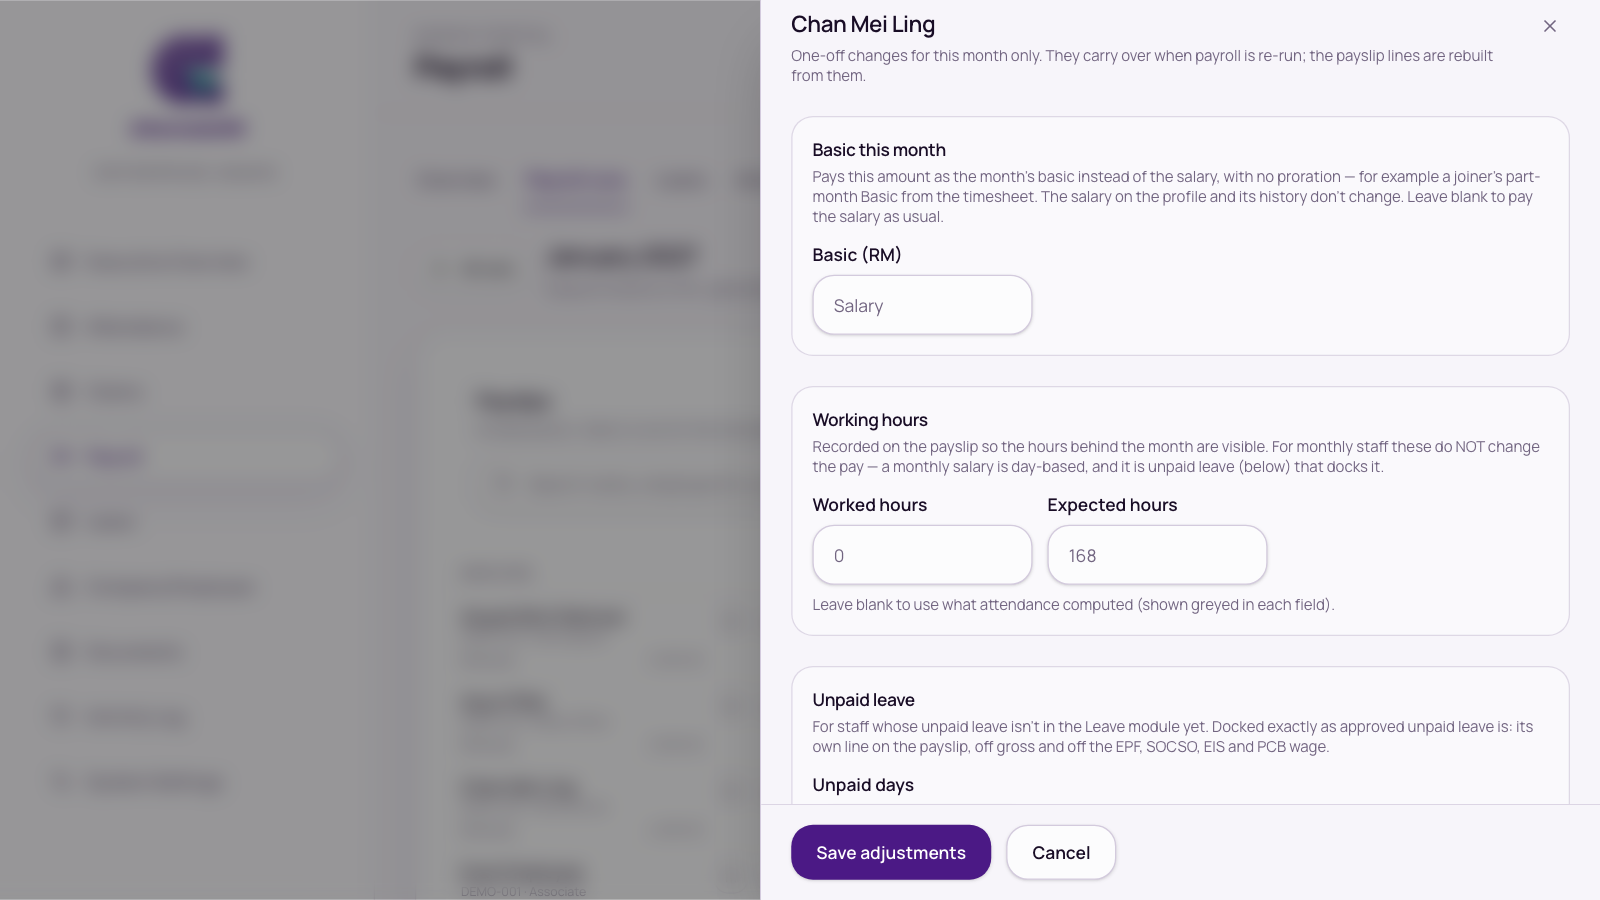
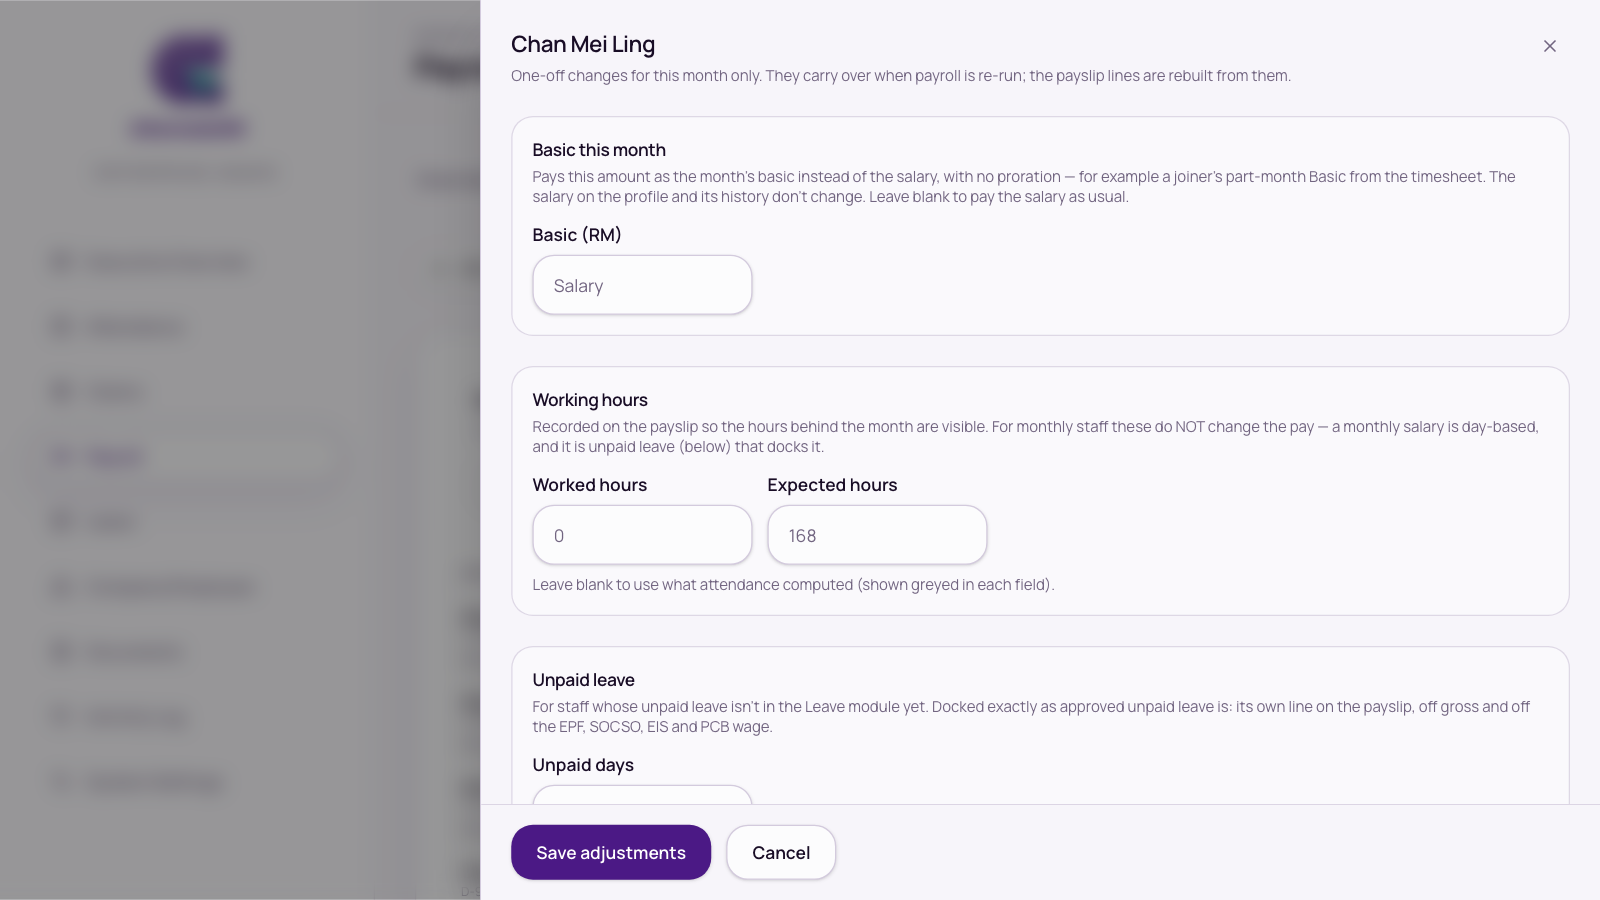
docs: What's new, API docs and user guide for adjustments search, wider panel and bank file names

Changed region(s): [[0.2812, 0.0, 0.9688, 1.0], [0.6562, 0.56, 0.75, 0.6222]]

diff --git a/api-docs/payroll-runs.html b/api-docs/payroll-runs.html
@@ -111,7 +111,7 @@
           already has an unnamed run (<code>409</code> otherwise). Nobody is paid twice for a month: anyone
           already in another run that month is dropped from a new one, and left out of a re-run. Every run
           has its own <code>id</code>; the <a href="#run-object"><code>label</code></a> (&ldquo;October 2026
-          &ndash; Workers&rdquo;) tells them apart, and a named run's file names carry its
+          &ndash; Workers&rdquo;) tells them apart, and a named run's document file names (not the bank file's) carry its
           name (see <a href="#run-files">Run names in file names</a>).</li>
         <li><strong>Two employee ids.</strong> Every id on this page is an
           <code>employeeProfileId</code> from <code>GET /payroll/employees</code> or the
@@ -467,7 +467,7 @@ curl -X PATCH https://&lt;api-host&gt;/payroll/runs/run_123 \
             <tr><td><code>periodLabel</code></td><td>string</td><td>The month only, e.g. <code>"January 2026"</code>, rendered server-side. Identical for every run of the month.</td></tr>
             <tr><td><code>name</code></td><td>string or null</td><td>The run's name within its month, e.g. <code>"Workers"</code>. Null for an unnamed run.</td></tr>
             <tr><td><code>label</code></td><td>string</td><td>The label to show when a month has several runs: <code>"October 2026 &ndash; Workers"</code> (an en dash), or just the month when the run is unnamed. Also what <code>alsoReverted</code>, <code>attachedToRunPeriod</code> and the run's own documents use.</td></tr>
-            <tr><td><code>runNumber</code></td><td>number</td><td>1 for the month's first run, 2 for the next, and so on. Not reused while a later run exists. Used for a bank file's batch id and the file-name tag of an unnamed later run.</td></tr>
+            <tr><td><code>runNumber</code></td><td>number</td><td>1 for the month's first run, 2 for the next, and so on. Not reused while a later run exists. Used for a bank file's batch id or sequence number (Maybank, Public Bank) and the file-name tag of an unnamed later run.</td></tr>
             <tr><td><code>status</code></td><td>string</td><td><code>"DRAFT"</code> · <code>"PENDING_APPROVAL"</code> · <code>"SUBMITTED"</code>.</td></tr>
             <tr><td><code>source</code></td><td>string</td><td><code>"COMPUTED"</code> (the normal path) or <code>"IMPORTED"</code> (seeded from a migration — its statutory files, bank file and run reports are refused; its payslips are still downloadable).</td></tr>
             <tr><td><code>skipProration</code></td><td>boolean</td><td>True when the pay figures are final and joiners/leavers are not prorated. See <a href="#update">PATCH</a>.</td></tr>
@@ -1367,9 +1367,12 @@ curl -X PATCH https://&lt;api-host&gt;/payroll/runs/run_123 \
         <code>Payroll_Summary_January_2026_Workers.pdf</code>,
         <code>ABPay {Company name} 2026-01 Workers.xlsx</code> &mdash; except the PCB (CP39) file, whose name is
         letters and digits only because the e-PCB upload refuses anything else: <code>{10-digit employer no}012026Workers.txt</code>.
-        This covers the statutory files, the bank file, the payslips ZIP, the documents bundle, the statutory and allowance/deduction zips, the run
+        This covers the statutory files, the payslips ZIP, the documents bundle, the statutory and allowance/deduction zips, the run
         summary, payment schedule, PCB details, allowance, deduction and manual-payment reports and the
         ABPay timesheet. The single payslip PDF and the TP1 documents are per employee and keep their names.
+        <strong>The bank file is the exception and never carries the tag</strong>: a bank's upload portal reads the file name
+        (Public Bank rejects anything outside its own pattern), so each bank keeps runs apart its own way &mdash; see the
+        <a href="#doc-bank-file">bank-file endpoint</a>.
         A run's own documents (summary, payment schedule, and so on) head their pages with the run
         <code>label</code>; a payslip still shows the month only.
       </div>
@@ -1823,10 +1826,10 @@ curl "https://&lt;api-host&gt;/payroll/runs/month/2026/1/summary?format=xlsx" \
           </table>
         </div>
         <h3>Response <code>200</code></h3>
-        <p>Maybank's TXT batch id carries <code>R{runNumber}</code> after the period (e.g. <code>202601R2</code>) for a month's second and later runs, so each upload's batch id is unique; the first run keeps the plain period. Every format's file name also carries the run's <a href="#run-files">name tag</a>.</p>
+        <p>Maybank's TXT batch id carries <code>R{runNumber}</code> after the period (e.g. <code>202601R2</code>) for a month's second and later runs, so each upload's batch id is unique; the first run keeps the plain period. A bank file's name never carries the run's name (the bank's portal reads it). Public Bank's ECP spreadsheet is named <code>{10-digit account}PR{ddMMyy}{NN}.xlsx</code>, where <code>{ddMMyy}</code> is the payment date and <code>NN</code> is the run number, <code>01</code> for the first run and <code>02</code> for the second, up to <code>99</code> (e.g. <code>1234567890PR31012601.xlsx</code>), so two runs paid the same day get names the bank accepts.</p>
         <p>Content type and filename depend on the configured bank (e.g. Public Bank's ECP spreadsheet, Maybank's TXT, CIMB's Excel template, or Hong Leong's two formats).</p>
         <p>For CIMB, <code>Content-Type</code> is an Excel workbook (<code>.xlsx</code>), filename <code>CIMB_Bulk_Payroll_{MM}{YYYY}.xlsx</code> (e.g. <code>CIMB_Bulk_Payroll_012026.xlsx</code>). One sheet, <code>EPF</code> (CIMB's template name): row 1 is the template's field rules, row 2 the headers (<code>*Beneficiary Name</code>, <code>Beneficiary ID</code>, <code>*BNM Code</code>, <code>*Account Number</code>, <code>*Payment Amount</code>, <code>Reference Number</code>), and one payee per row from row 3. <code>Beneficiary ID</code> is blank; <code>*BNM Code</code> is CIMB's dropdown label (e.g. <code>35-CIMB Bank Berhad</code>); the account number is text; the amount is a number to 2 decimals. Names and reference have <code>-</code> and <code>/</code> replaced by spaces and are cut to CIMB's lengths (40 and 30).</p>
-        <p>For OCBC, <code>Content-Type</code> is <code>text/plain</code> (ASCII, CRLF line endings), filename <code>OCBC_GIRO_Payroll_{MM}{YYYY}_T{tapeId}.txt</code> (e.g. <code>OCBC_GIRO_Payroll_012026_T001.txt</code>, plus the run's name tag when it has one). Every line is exactly 480 characters: one header (<code>01</code>) with the company, its debiting account, the tape id and the value date; one detail line (<code>02</code>) per payee with account, amount in sen, name, routing ID and reference; one trailer (<code>03</code>) with the payee count and total. Beneficiary names are cut to 22 characters, and an account number longer than 17 digits is refused rather than cut.</p>
+        <p>For OCBC, <code>Content-Type</code> is <code>text/plain</code> (ASCII, CRLF line endings), filename <code>OCBC_GIRO_Payroll_{MM}{YYYY}_T{tapeId}.txt</code> (e.g. <code>OCBC_GIRO_Payroll_012026_T001.txt</code>). Every line is exactly 480 characters: one header (<code>01</code>) with the company, its debiting account, the tape id and the value date; one detail line (<code>02</code>) per payee with account, amount in sen, name, routing ID and reference; one trailer (<code>03</code>) with the payee count and total. Beneficiary names are cut to 22 characters, and an account number longer than 17 digits is refused rather than cut.</p>
         <h3>Errors</h3>
         <ul>
           <li><code>404</code> — no such run.</li>

diff --git a/user-guide/altomatehr-admin-guide.html b/user-guide/altomatehr-admin-guide.html
@@ -7,7 +7,7 @@
   Bookmark: this page is correct as of this commit on main. The next update
   re-checks every user-visible change after it — from any branch — then
   moves it forward.
-  user-guide-covered-up-to: 811048b
+  user-guide-covered-up-to: 6e1186b
 -->
 <html lang="en">
 <head>
@@ -1527,6 +1527,10 @@
           approved overtime, leave and claims. Under the month's name the run shows when it was generated and approved,
           in your own local time.</p></li>
       <li><h4>Check and adjust</h4>
+        <p>Before the run is worked out, the <strong>One-off adjustments</strong> list shows everyone on the run. Type a name or
+          employee number in <em>Search by name or employee number</em> to find someone; long lists show 25 people a page, with
+          the page buttons underneath. Each person has an <span class="btn-name">Adjust</span> button; it opens a wide side panel
+          so the boxes and one-off items have room.</p>
         <p>Open anyone's line with <span class="btn-name">Edit OT / adjustments</span> to change worked hours, overtime,
           or add a one-off allowance, deduction or expense for this month, or to set one person's employer HRDF levy. The
           <strong>Overtime</strong> box has one hours box per overtime type, each labelled with the rate it pays
@@ -1781,6 +1785,10 @@
           <p class="shot-cap">Adjustments drawer</p>
         </div>
         <div class="shot-item">
+          <img src="shots/admin/payroll-adjustments-list.png" alt="A draft run's One-off adjustments list with the Search by name or employee number box above the employees and their Adjust buttons" loading="lazy">
+          <p class="shot-cap">One-off adjustments list, with search</p>
+        </div>
+        <div class="shot-item">
           <img src="shots/admin/payroll-adjustments-basic.png" alt="The adjustments drawer for one monthly employee scrolled to the Basic this month block with its Basic (RM) field, then Working hours and the start of Unpaid leave" loading="lazy">
           <p class="shot-cap">Basic this month</p>
         </div>
@@ -1925,7 +1933,10 @@
       buttons are still there when you only want one.</p>
     <h3>The bank file follows your bank</h3>
     <ul>
-      <li><strong>Public Bank</strong> — ECP Bulk Payroll (.xlsx)</li>
+      <li><strong>Public Bank</strong> — ECP Bulk Payroll (.xlsx). The file is named with your account number, the date and the run's
+        number, for example <em>1234567890PR17112601.xlsx</em> (the last two digits are the run number, so a month paid in two runs
+        gives <em>01</em> and <em>02</em>). Keep that name when you upload it: Public Bank rejects files that have been renamed or have
+        a run's name added.</li>
       <li><strong>Maybank</strong> — Maybank2E universal payment file (.txt)</li>
       <li><strong>CIMB</strong> — BizChannel@CIMB bulk payroll (Excel), for IC and passport holders alike (see below)</li>
       <li><strong>Hong Leong</strong> — ConnectFirst, plus a ConnectBiz template</li>

diff --git a/frontend/src/features/whats-new/lib/entries.ts b/frontend/src/features/whats-new/lib/entries.ts
@@ -8,7 +8,7 @@
 //
 // Bookmark: the last commit on main these notes already cover. The next update
 // writes up everything after it — from any branch — then moves it forward.
-// whats-new-covered-up-to: 811048b
+// whats-new-covered-up-to: 6e1186b
 
 // A line is for everyone, or — wrapped in admins(…) — for admins and owners
 // only. Employees and supervisors never see an admins line, so it doesn't
@@ -28,6 +28,16 @@ export type WhatsNewEntry = {
 };
 
 export const WHATS_NEW: WhatsNewEntry[] = [
+  {
+    date: "2026-11-17",
+    improved: [
+      admins("On a payroll run, the One-off adjustments list now has a search box for name or employee number. It shows 25 people a page."),
+      admins("The Adjustments panel on a payroll run is wider, so category, name and amount fit side by side."),
+    ],
+    fixed: [
+      admins("Bank upload files no longer add the run's name, which Public Bank rejected. A second run in a month gets file number 02. Amounts are unchanged."),
+    ],
+  },
   {
     date: "2026-11-13",
     title: "Work permit and passport reminders",

diff --git a/api-docs/index.html b/api-docs/index.html
@@ -25,7 +25,7 @@
   Bookmark: the pages that exist are correct as of this commit on main. The
   next update re-checks every controller/DTO changed after it — from any
   branch — then moves it forward.
-  api-docs-covered-up-to: e485e71
+  api-docs-covered-up-to: 6e1186b
 -->
 <div class="layout">
   <nav class="sidebar" aria-label="Documentation">

diff --git a/user-guide/altomatehr-employee-guide.html b/user-guide/altomatehr-employee-guide.html
@@ -7,7 +7,7 @@
   Bookmark: this page is correct as of this commit on main. The next update
   re-checks every user-visible change after it — from any branch — then
   moves it forward.
-  user-guide-covered-up-to: 811048b
+  user-guide-covered-up-to: 6e1186b
 -->
 <html lang="en">
 <head>
